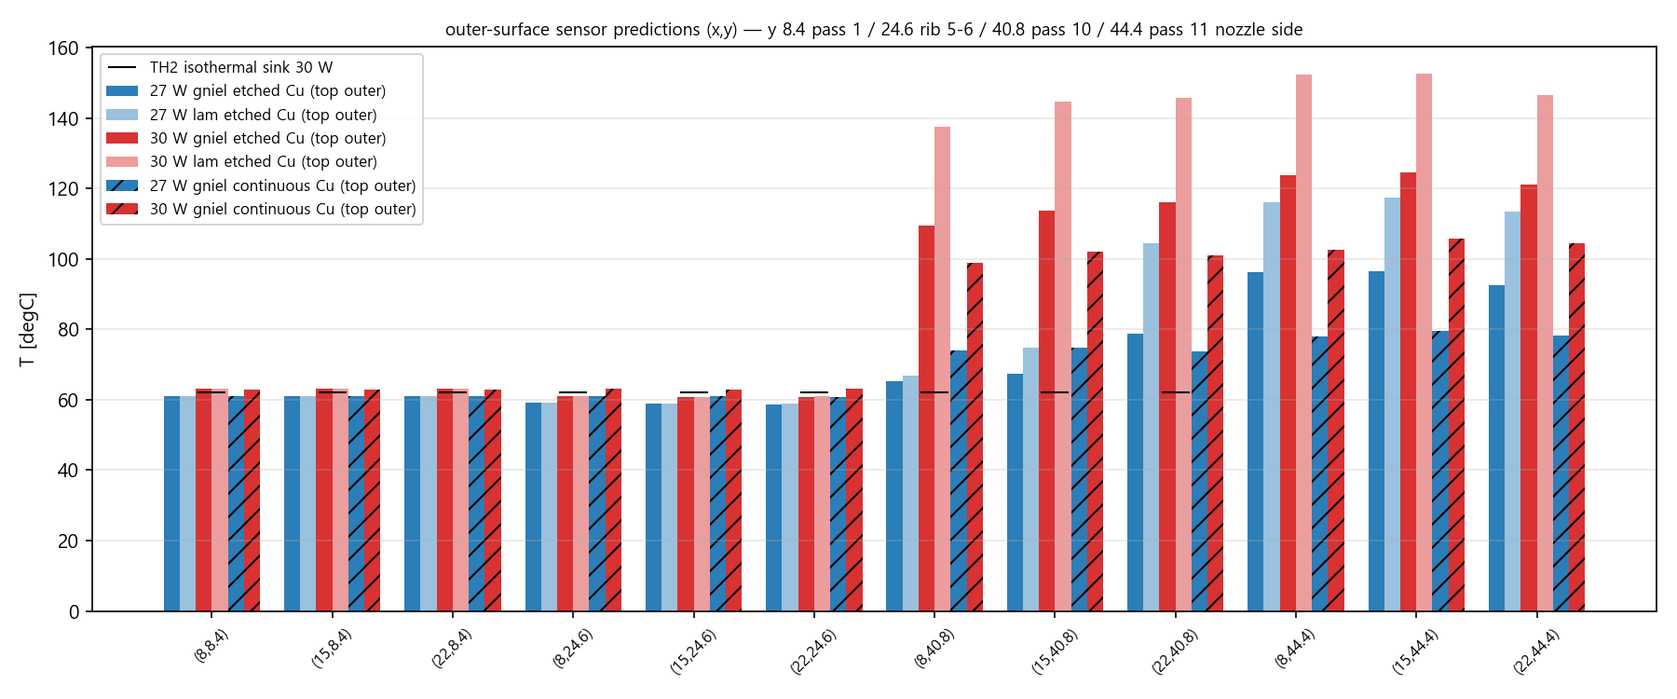
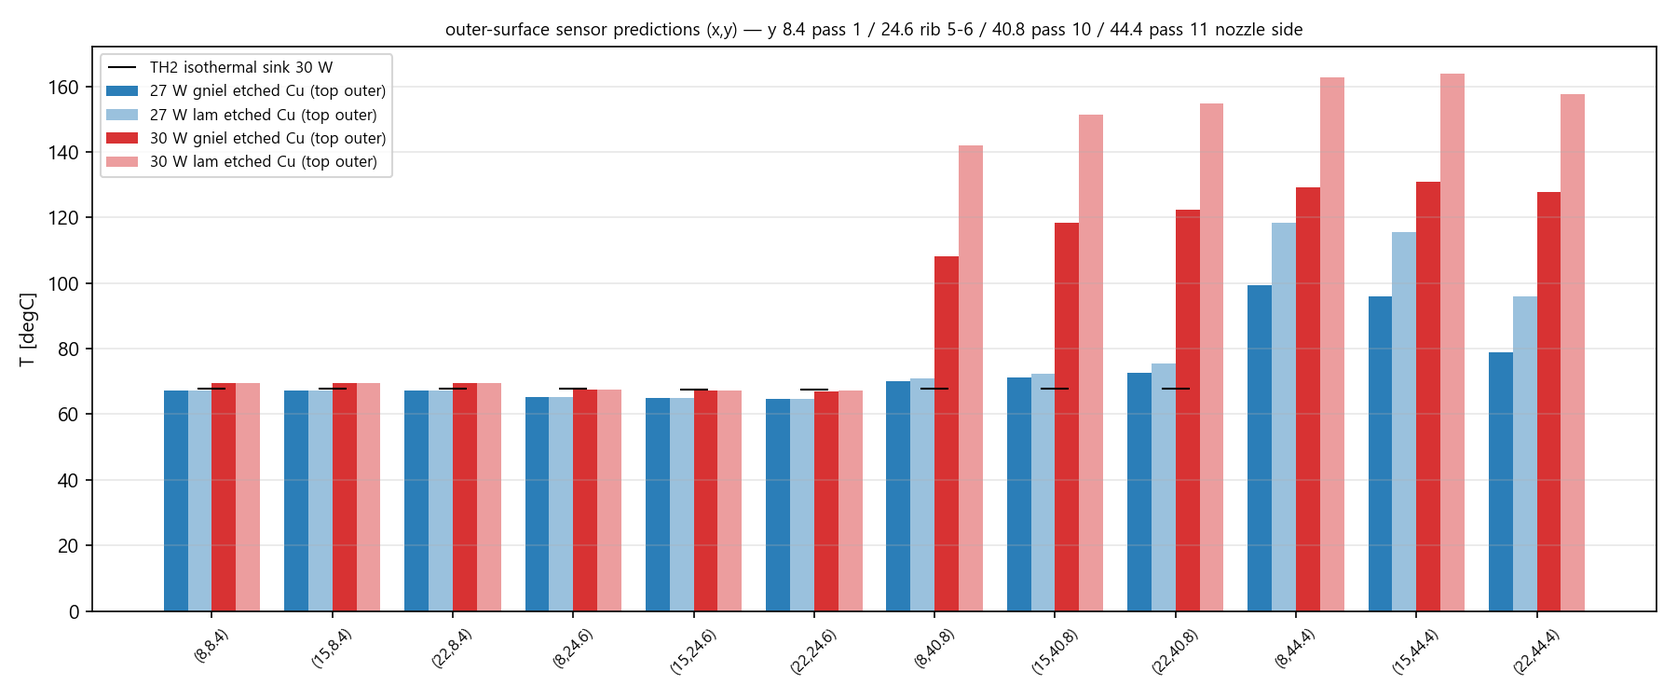
추력기: 추진제 R245fa → R1233zd(E) 전환 (전 모델 재런 — 설계점 113.7 mg/s·26.0 W·T_sat 60.8 °C, x_di 0.65, 출구 벽 27 W 104–125 °C, 콜드스타트 11–24 s, 오리피스 ΔP 42 kPa; 하드웨어 불변, 차트·엑셀·예측표·5절 갱신)

diff --git a/public/metacube/thruster/index.html b/public/metacube/thruster/index.html
@@ -7,4 +7,4 @@ table{border-collapse:collapse;font-size:12.5px;background:#fff}th,td{border:1px
 .note{background:#fff6e8;border-left:4px solid #d98040;padding:9px 12px;font-size:13px;margin:12px 0;border-radius:0 4px 4px 0}.ok{background:#eef7ee;border-left:4px solid #3a8a3a}
 .vf{width:100%;height:760px;border:1px solid #cfd8ea;border-radius:4px;background:#fff}.two{display:grid;grid-template-columns:1fr 1fr;gap:12px}@media(max-width:900px){.two{grid-template-columns:1fr}}
 ul{font-size:13.5px}li{margin:3px 0}.dl a{display:inline-block;margin:3px 6px 3px 0;padding:4px 10px;border:1px solid #b9c6dc;border-radius:4px;background:#fff;color:#1F3864;text-decoration:none;font-size:12.5px}
-</style></head><body><div id="mcnav" style="position:sticky;top:0;z-index:9999;display:flex;gap:6px;align-items:center;background:#1F3864;padding:7px 14px;font-family:'Malgun Gothic',sans-serif"><span style="color:#fff;font-weight:700;font-size:13.5px;margin-right:8px">MetaCube</span><a href="/metacube/" style="color:#cfd8ea;border:1px solid #4a6293;border-radius:4px;padding:3px 12px;font-size:12.5px;text-decoration:none">전기체 3U CAD</a><a href="/metacube/barrel/" style="color:#cfd8ea;border:1px solid #4a6293;border-radius:4px;padding:3px 12px;font-size:12.5px;text-decoration:none">경통(카메라) 상세</a><a href="/metacube/thruster/" style="color:#1F3864;background:#fff;border-radius:4px;padding:3px 12px;font-size:12.5px;font-weight:700;text-decoration:none">추력기 (PCB 기화식)</a><a href="/metacube/coldgas/" style="color:#cfd8ea;border:1px solid #4a6293;border-radius:4px;padding:3px 12px;font-size:12.5px;text-decoration:none">추진모듈 (냉가스 R134a)</a><a href="/metacube/downloads.html" style="color:#cfd8ea;border:1px solid #4a6293;border-radius:4px;padding:3px 12px;font-size:12.5px;text-decoration:none">STEP 다운로드</a><span style="margin-left:auto;display:flex;gap:10px;align-items:center;font-size:11.5px;color:#cfd8ea"><span>추력기 <b style="color:#fff">v0.4</b></span><span style="color:#9fb0d0">배포 2026-08-16 04:04 KST</span></span></div><div class="tabbar"><button id="tb-ov" onclick="showTab(&quot;ov&quot;)">개요</button><button id="tb-prop" onclick="showTab(&quot;prop&quot;)">추진제 선택</button><button id="tb-design" onclick="showTab(&quot;design&quot;)">설계·치수·3D</button><button id="tb-heater" onclick="showTab(&quot;heater&quot;)">히터·V→I·P·T</button><button id="tb-fea" onclick="showTab(&quot;fea&quot;)">3D 열해석</button><button id="tb-boil" onclick="showTab(&quot;boil&quot;)">채널 비등 지도</button><button id="tb-files" onclick="showTab(&quot;files&quot;)">EAGLE 파일</button><button id="tb-risk" onclick="showTab(&quot;risk&quot;)">미결·리스크</button></div><div class="wrap"><section class="tabpane on" id="sec-ov"><h1>PCB(FR-4) 냉매 기화식 마이크로추력기 — 설계·해석 종합</h1><p class="sub">R245fa 액체를 시린지펌프로 공급 → 다층 FR-4 ㄹ자 마이크로채널에서 Cu 35 μm 히터로 기화 → 노즐. 지상 시험 1 atm, 챔버 4.0 bar abs, 진공 환산 50 mN. 1차 = 단층(코어 1장) 실험체, 2차 = 같은 코어를 3층으로 접기. 갱신 2026-08-16 04:04 KST</p><div class="cards"><div class="card"><b>설계점</b><div class="n">50 mN · 25.6 W</div><p>진공 Isp 45.5 s(ε100) · ṁ 112 mg/s = 5.4 mL/min · 지상 Isp 24 s. 전력 = 현열 5.1 + 잠열 19.4 + 과열 1.1 W(+손실 1~2 W).</p></div><div class="card"><b>채널</b><div class="n">2.0 × 0.6 · 12패스 280 mm</div><p>코어 FR-4 0.6 관통슬롯(라우터 2.0), 리브 1.6, 보드 30×49.2. 비등 구간 벽 과열도 7.6 K(Cooper, 상관식 밴드 ±40 %) · 2상 ΔP ~3 kPa · 건조 시작 건도 x_di≈0.65(Kim-Mudawar) 이후 후건조 구간 — 벽온 밴드는 5절 v2 모델 참조.</p></div><div class="card"><b>히터</b><div class="n">ㄹ자 0.20/0.20 · 17.1 Ω</div><p>Cu 35 μm 폭방향 미앤더, 밴드 1.6(채널 안쪽), 면당 1132 mm 8.5 Ω, 전 면 직렬 하나(U턴 코너까지 연속, 라우터 R1.0 코너·슬롯 끝 라운드에서 0.2 여유). 운전 정격 26~27 W @ ~23 V(요구량 정합), 30 W @ 24 V는 마진 케이스, 건식 ≤10 V. 4선 R(T) 측정용 켈빈 센스 패드 2개.</p></div><div class="card"><b>조립</b><div class="n">SMT 리플로우</div><p>솔더 랜드 1.0(리브 위+프레임), 부품 2종(코어 1 + 커버 2 동일, 뒤집어 사용), 리드 = 밀봉 안쪽 비아(솔더 충전, 가안), 정렬홀 φ2×3, 센서포트 9점.</p></div></div><div class="note ok"><b>탭으로 나눠 놓았습니다</b> — 위 탭을 누르면 해당 내용만 표시됩니다: 추진제 선택(56종 스크리닝) → 설계·치수·3D(단층/3층/커버 뷰어, EAGLE 미리보기) → 히터·V→I·P·T(예측표) → 3D 열해석(TH2·TH3) → 채널 비등 지도(정상·과도·애니메이션) → EAGLE 파일 → 미결·리스크. 주소에 #탭이름을 붙여 바로 열 수 있습니다(예: #boil).</div></section><section class="tabpane" id="sec-prop"><h2>1. 추진제 선택 (56종 스크리닝)</h2><p class="sub">챔버 4.0 bar · 과열 10 K · ε100 · η0.93 · 물성 CoolProp 7.2. 깔때기: 시린지펌프·저압탱크(20 °C 증기압 ≤ 1.5 bar) → PCB 온도 한계 65 °C에서 챔버 압력(MEOP) ≥ 3 bar → 불연 → 5종 → 규제(R11 CFC·R123 HCFC) 제외 → 3종 → ρ·Isp 1위 R245fa. 색 = 가연성, 모양 = 독성(○ A / ◇ B).</p><figure><img src="/metacube/thruster/img/propellant_selection.png" alt="propellant selection"><figcaption>① 저장 압력 vs ρ·Isp · ② ρ·Isp 순위(★ 창 안) · ③ 실현 창(저장압 × 65 °C MEOP) · ④ 전력/추력 vs ρ·Isp</figcaption></figure><div class="dl"><a href="/metacube/thruster/data/propellant_selection.xlsx" download>⬇ 추진제 56종 데이터 엑셀 (propellant_selection.xlsx — 시트1 전체 데이터 25열, 시트2 정의·계산식·출처)</a></div><h3>창 안 후보</h3><div class="tw"><table><tr><th>추진제</th><th>P_sat 20 °C [bar]</th><th>P_sat 65 °C = MEOP [bar]</th><th>ρ 20 °C</th><th>T_sat 4 bar [°C]</th><th>Isp 진공 [s]</th><th>ρ·Isp [g·s/cm³]</th><th>W/mN</th><th>50 mN 전력 [W]</th><th>ASHRAE 34</th><th>GWP</th></tr><tr><td>R11</td><td>0.89</td><td>3.6</td><td>1488</td><td>69.2</td><td>43.0</td><td>63.9</td><td>0.51</td><td>25</td><td>A1</td><td>4660</td></tr><tr><td>R123</td><td>0.76</td><td>3.3</td><td>1477</td><td>72.2</td><td>42.1</td><td>62.2</td><td>0.51</td><td>26</td><td>B1</td><td>77</td></tr><tr><td>R245fa</td><td>1.23</td><td>5.3</td><td>1352</td><td>55.0</td><td>44.3</td><td>59.9</td><td>0.53</td><td>26</td><td>B1</td><td>858</td></tr><tr><td>R1234ze(Z)</td><td>1.49</td><td>5.9</td><td>1238</td><td>50.8</td><td>46.6</td><td>57.6</td><td>0.52</td><td>26</td><td>A2L</td><td>1</td></tr><tr><td>R1233zd(E)</td><td>1.08</td><td>4.5</td><td>1275</td><td>60.8</td><td>44.8</td><td>57.2</td><td>0.53</td><td>26</td><td>A1</td><td>1</td></tr></table></div><div class="note">R245fa: ρ·Isp 59.9(창 안 1위, N₂ 콜드가스의 4배, Xe 200 bar와 동급이면서 탱크 1.2 bar), 65 °C MEOP 5.3 bar, 0.53 W/mN(물 VLM의 1/5), 4 bar 운전 55 °C(FR-4 친화). 약점 = ASHRAE B1(고독성 등급)·GWP 858 → 무독 최우선이면 <b>R1233zd(E)</b>(A1, GWP 1, 성능 −4 %)를 같은 설계로. GWP·등급은 투고 전 원출처 재확인.</div></section><section class="tabpane" id="sec-design"><h2>2. 설계·치수·3D 모델</h2><p class="sub">부품 3종만: 커버(동일 2, 뒤집어 상·하) · 코어(단층 1 / 3층 3) · 중간판(3층만, 동일 2, 4층 보드 양면 히터+매설 리드). 보드 y-대칭이라 커버를 뒤집으면 포트 홀이 입구 ↔ 노즐 자리로 감. 뷰어: 범례 클릭 토글 · 드래그 회전 · 휠 줌.</p><h3>2.0 핵심 치수 표 (mm)</h3><div class="tw"><table><tr><th>항목</th><th>값</th></tr><tr><td colspan="2" style="background:#e9eef6;font-weight:700;color:#1F3864">§ 보드 / 적층</td></tr><tr><td>보드 외형</td><td style="text-align:left">30.0 × 49.2 mm (단층) · 30.0 × 20.4 (3층, 중간판은 좌측 탭 +6)</td></tr><tr><td>원점</td><td style="text-align:left">좌하 (0, 0), 단위 mm, 보드 y-대칭</td></tr><tr><td>적층 두께</td><td style="text-align:left">단층 1.67 (커버 0.4 + Cu 0.035 + 솔더 0.10 + 코어 0.6 + 솔더 0.10 + Cu 0.035 + 커버 0.4) · 3층 4.21</td></tr><tr><td>부품</td><td style="text-align:left">커버 ×2 동일(뒤집기) · 코어 ×1(단층) / ×3(3층) · 중간판 ×2 동일(3층, 4층 보드)</td></tr><tr><td>정렬 홀</td><td style="text-align:left">φ2.0 ×3 (28, 2) (28, 47.2) (2, 24.6) — y-대칭·x-비대칭</td></tr><tr><td colspan="2" style="background:#e9eef6;font-weight:700;color:#1F3864">§ 코어 (FR-4 0.6, 2L)</td></tr><tr><td>채널 슬롯</td><td style="text-align:left">폭 2.0 관통(라우터 Ø2.0 중심선), 깊이 = 코어 0.6</td></tr><tr><td>직선부</td><td style="text-align:left">x 5.0 – 25.0 (길이 20.0), 12패스(단층) / 4패스(3층 코어)</td></tr><tr><td>패스 중심 y</td><td style="text-align:left">4.8 + 3.6·i (i = 0…11) → 4.8 … 44.4</td></tr><tr><td>피치 / 리브</td><td style="text-align:left">3.6 / 1.6</td></tr><tr><td>U턴</td><td style="text-align:left">폭 2.0, 짝수 패스 끝 x 23–25 / 홀수 패스 끝 x 5–7</td></tr><tr><td>경로 길이</td><td style="text-align:left">~280 mm (중심선 256)</td></tr><tr><td>솔더 랜드</td><td style="text-align:left">폭 1.0, 리브 중심선 y = 6.6 + 3.6·i (i = 0…10) + 외곽 프레임(안쪽 x 4.7/25.3, y 3.5/45.7), Top·Bottom 동일</td></tr><tr><td colspan="2" style="background:#e9eef6;font-weight:700;color:#1F3864">§ 커버 (FR-4 0.4, 2L, ×2 동일)</td></tr><tr><td>동박</td><td style="text-align:left">Cu 35 μm: Top = 안쪽면(히터+랜드), Bottom = 바깥면(패드), ENIG, 솔더마스크 없음</td></tr><tr><td>히터 밴드</td><td style="text-align:left">1.6 (채널 2.0 안쪽 각 0.2), 세그먼트 중심선 패스 y ± 0.7</td></tr><tr><td>히터 선폭 / 갭 / 피치</td><td style="text-align:left">0.20 / 0.20 / 0.40</td></tr><tr><td>히터 x 범위</td><td style="text-align:left">패스 0: 8.2 → 24.7 · 패스 1–10: 5.3 ↔ 24.7(U턴 코너 포함, R1.0 라운드에서 0.2 여유로 클립) · 패스 11: 24.7 → 8.0 · U턴 연결부 [xc+0.3, xc+1.7]</td></tr><tr><td>히터 길이 / 저항</td><td style="text-align:left">1132 mm/면 · 5,660 sq · 8.5 Ω/면 (ρs 1.40 mΩ/sq + 0.6) · 전 면 직렬 17.1 Ω</td></tr><tr><td>리드 비아</td><td style="text-align:left">φ0.3 드릴 / 패드 0.7 · (5.8, 4.4) 시작 · (5.8, 44.8) 끝 (슬롯 끝 라운드 안 0.2 여유) · 리플로우 때 솔더 충전</td></tr><tr><td>바깥면 패드</td><td style="text-align:left">2.4 × 1.2 중심 (1.8, 4.8)·(1.8, 44.4), 인출선 0.5</td></tr><tr><td>포트 홀</td><td style="text-align:left">φ1.0 (7.0, 4.8) — 하부 커버 = 입구, 뒤집으면 (7.0, 44.4) = 노즐 인서트</td></tr><tr><td>센서 포트</td><td style="text-align:left">φ0.8 블라인드 깊이 0.3(바깥면에서), x 8·15·22 × y 8.4·24.6·40.8</td></tr><tr><td colspan="2" style="background:#e9eef6;font-weight:700;color:#1F3864">§ 중간판 (3층, FR-4 0.4, 4L, ×2 동일)</td></tr><tr><td>히터</td><td style="text-align:left">위·아래 면 동일 패턴(코어당 4패스, 351 mm/면 3.1 Ω), 비아 4개(시작 ±0.4·끝 ±0.4, 면별로 다른 비아)</td></tr><tr><td>매설 리드</td><td style="text-align:left">L2로 밀봉 링 아래 통과 → 좌측 탭 패드 (−4.3, 4.8)·(−4.3, 15.6)</td></tr><tr><td>층간 유체 비아</td><td style="text-align:left">φ1.2 (7.0, 15.6) — 뒤집으면 (7.0, 4.8)</td></tr><tr><td colspan="2" style="background:#e9eef6;font-weight:700;color:#1F3864">§ 노즐·유량</td></tr><tr><td>노즐</td><td style="text-align:left">목 φ0.30, 지상 ε≈1.4 정합 / 진공 ε 100 교체</td></tr><tr><td>설계 유량 / 압력</td><td style="text-align:left">5.4 mL/min (112 mg/s) · 챔버 4.0 bar abs · 히터 30 W @ 24 V</td></tr></table></div><h3>2.0b 층별 2D 도면 (치수 표기)</h3><div class="two"><figure><img src="/metacube/thruster/img/drw_core.png" alt="core"><figcaption>코어 — 관통 슬롯 + 양면 랜드</figcaption></figure><figure><img src="/metacube/thruster/img/drw_cover_outer.png" alt="cover outer"><figcaption>커버 바깥면 — 패드·인출선·센서 포트</figcaption></figure></div><figure><img src="/metacube/thruster/img/drw_cover_inner.png" alt="cover inner"><figcaption>커버 안쪽면 — 히터 ㄹ자 + 랜드 (확대 인셋에 선폭·갭·피치·밴드·여유)</figcaption></figure><div class="two"><figure><img src="/metacube/thruster/img/drw_stack.png" alt="stack"><figcaption>적층 단면 — 단층 1.67 / 3층 4.21 mm</figcaption></figure><figure><img src="/metacube/thruster/img/drw_midplate.png" alt="midplate"><figcaption>중간판(3층 전용) — 양면 히터·비아 4·매설 리드·탭·층간 유체 비아</figcaption></figure></div><h3>2.1 단층(1코어) 조립 — 1차 실험체</h3><iframe class="vf" data-src="/metacube/thruster/viewer/v1.html"></iframe><h3>2.2 3층(3코어 접기) 조립 — 2차</h3><iframe class="vf" data-src="/metacube/thruster/viewer/v3.html"></iframe><h3>2.3 커버 히터 단독 (도면용, 옆에 치수표)</h3><iframe class="vf" data-src="/metacube/thruster/viewer/vc.html"></iframe><h3>2.4 히터 치수</h3><figure><img src="/metacube/thruster/img/pcb_heater_zigzag_dims.png" alt="heater dims"><figcaption>Cu 35 μm 폭방향 ㄹ자: 선폭 0.20 / 갭 0.20 / 피치 0.40 · 세그먼트 1.6(밴드) · 채널 2.0 안쪽 0.2 여유 · 패스 0 시작 x 8.2 / 패스 11 끝 x 8.0 · U턴 코너까지 연속(라운드 클립) · 비아 (5.4, 4.1)·(5.4, 45.1) · 바깥면 패드 (1.8, 4.8)·(1.8, 44.4)</figcaption></figure><h3>2.5 EAGLE 도면 미리보기</h3><figure><img src="/metacube/thruster/img/eagle_v03_preview.png" alt="eagle"><figcaption>core_v03.brd(슬롯 = Milling 46 폭 2.0 중심선, 랜드 Top+Bottom) · cover_v03.brd(Top = 안쪽면 히터+랜드, Bottom = 바깥면 패드, 비아, 포트 φ1.0). 같은 커버 부품이 상·하 공용.</figcaption></figure></section><section class="tabpane" id="sec-heater"><h2>3. 히터 설계와 전압 → 전류·전력·온도 예측</h2><p class="sub">저항 모델: 면저항 1.40 mΩ/sq(벌크의 2.9배 — 팀 히터 #2 0.152×2720 mm 26.3 Ω와 CSTE 0.3×282.5 mm 2.51 Ω 공통 피팅) + 리드 0.6 Ω/면, TCR 0.393 %/K. 3D 전기-열(전압 구동, 요소별 ρ(T), Cooper 비등, 에칭 Cu 패턴)로 계산. 히터는 단층/3층 모두 <b>하나</b>(전 면 직렬, 총 ~2240 mm) → 운전점 동일.</p><figure><img src="/metacube/thruster/img/figZ_VIP_T.png" alt="V-I-P-T"><figcaption>전압 → 보드 발열 · 전류 · 최고 온도 (직렬, 파워서플라이 0~30 V). 유체 운전은 비등이 63~65 °C에 묶어 P ∝ V², 건식은 R(T)로 전류 포화.</figcaption></figure><div class="tw"><table><tr><th>조건</th><th>I [A]</th><th>P 보드 [W]</th><th>P 리드 [W]</th><th>R(T) [Ω]</th><th>T_max [°C]</th><th>밴드 평균</th><th>외판 센서 범위</th><th>바닥 과열도 [K]</th></tr><tr><td>유체 15 V</td><td>0.77</td><td>10.9</td><td>0.72</td><td>19.39</td><td>60.6</td><td>60.6</td><td>56.6–59.3</td><td>5.2</td></tr><tr><td>유체 20 V</td><td>1.03</td><td>19.3</td><td>1.27</td><td>19.47</td><td>62.0</td><td>61.9</td><td>57.5–60.5</td><td>6.5</td></tr><tr><td>유체 24 V</td><td>1.23</td><td>27.7</td><td>1.81</td><td>19.53</td><td>63.0</td><td>62.9</td><td>58.1–61.4</td><td>7.4</td></tr><tr><td>유체 27 V</td><td>1.38</td><td>35.0</td><td>2.28</td><td>19.58</td><td>63.7</td><td>63.6</td><td>58.5–62.0</td><td>8.0</td></tr><tr><td>유체 30 V</td><td>1.53</td><td>43.1</td><td>2.81</td><td>19.62</td><td>64.3</td><td>64.3</td><td>58.9–62.6</td><td>8.6</td></tr><tr><td>건식 6 V</td><td>0.31</td><td>1.8</td><td>0.12</td><td>19.08</td><td>57.5</td><td>55.4</td><td>52.4–55.1</td><td>—</td></tr><tr><td>건식 8 V</td><td>0.39</td><td>2.9</td><td>0.18</td><td>20.45</td><td>81.3</td><td>77.7</td><td>72.6–77.3</td><td>—</td></tr><tr><td>건식 10 V</td><td>0.45</td><td>4.3</td><td>0.25</td><td>22.02</td><td>108.5</td><td>103.2</td><td>95.5–102.7</td><td>—</td></tr><tr><td>건식 12 V</td><td>0.51</td><td>5.8</td><td>0.31</td><td>23.73</td><td>138.3</td><td>131.0</td><td>120.5–130.5</td><td>—</td></tr></table></div><div class="note ok"><b>운전 규칙(v2)</b> P_필요 ≈ 4.75 W × Q[mL/min] + 1.5 W → 5.4 mL/min = <b>27 W ≈ 23 V</b>(요구량 정합; 30 W/24 V는 출구 벽 129–159 °C라 마진 케이스로만) · 8 mL/min = 28 V · 9 mL/min = 30 V. 건식 통전은 10 V(4.3 W, 108 °C) 이하. 표의 T_max·외판 센서는 비등 구간(등온 싱크) 값 — 출구 구간은 5절 결합 FEA.</div><div class="note"><b>가장 큰 불확실성</b> = 면저항(×3 범위). 커버 보드 4장 먼저 발주 → 위트니스 쿠폰 4선 측정(ρs·R_fix·TCR) → 예측표 갱신 → 풀스택 발주 순서 권장.</div></section><section class="tabpane" id="sec-fea"><h2>4. 3D 열해석 (CalculiX)</h2><div class="note"><b>v2 정정 (08-16)</b> — 아래 TH2·TH3는 채널 전체를 55 °C 등온 비등 싱크로 둔 해석이라 <b>비등 구간(x &lt; x_di≈0.67, 앞 ~180 mm)에서만 유효</b>합니다. 건조·증기 구간(마지막 1~1.5패스)은 5절의 <b>3D-1D 결합 FEA</b>가 정본: 출구 벽 27 W 101–123 °C / 30 W 129–159 °C, 노즐측 외판 센서 92–97 °C(27 W). 콜드스타트 2.9–7.8 s는 웜 리스타트 값 → 진짜 콜드스타트 9–14 s(5절). 등온 싱크 결과의 T_max 63 °C·열배분 46/46/7·과열도 7.6 K·건식 K/W는 그대로 유효.</div><h3>4.1 판 모델 TH2 — 단층 30×49×1.54, 30 W, 에칭 Cu 패턴</h3><div class="cards"><div class="card"><b>T_max</b><div class="n">63.3 °C</div><p>히터 밴드. Cu 상/하 대칭(0.00 K). TH1 3코어 65.1보다 낮음.</p></div><div class="card"><b>열배분</b><div class="n">46 / 46 / 7 %</div><p>바닥 / 천장 / 리브 측벽. 벽 과열도 바닥=천장 7.6 K, 측벽 3.1 K.</p></div><div class="card"><b>외피 손실</b><div class="n">1.2 W</div><p>96 % 폐합. 외판 센서 9점 59.6~62.3 °C(채널 위 vs 리브 위 ~2.5 K).</p></div><div class="card"><b>콜드스타트(3D, 웜 리스타트)</b><div class="n">2.9–7.8 s</div><p>⚠ 유체가 처음부터 55 °C인 조건(웜 리스타트). 채널 액체 재고·통과시간(3.8 s)을 포함한 진짜 콜드스타트는 5절 v2 모델(6~15 s). 건식 6 W: 239/142 °C(h 10/20) → 36/20 K/W.</p></div></div><div class="two"><figure><img src="/metacube/thruster/img/figS1_core_midplane_A.png" alt="S1"><figcaption>코어 중간면 / 하부 Cu 히터면 온도 (S_A 30 W)</figcaption></figure><figure><img src="/metacube/thruster/img/figS1b_cu_pattern_compare.png" alt="S1b"><figcaption>연속 Cu 가정 vs 에칭 패턴 — 에칭 패턴이 정본(밴드 > 리브 > 여백)</figcaption></figure></div><div class="two"><figure><img src="/metacube/thruster/img/figS3_dTwall_path.png" alt="S3"><figcaption>벽 과열도 vs 채널 경로 — 경로 전체 평탄, U턴 봉우리 없음(히터가 채널 안쪽)</figcaption></figure><figure><img src="/metacube/thruster/img/figS4_transient_D.png" alt="S4"><figcaption>콜드스타트 (22 °C → 30 W ON)</figcaption></figure></div><h3>4.2 단위셀 TH3 — 실제 ㄹ자 트레이스 0.20/0.20 해상 (격자 0.05 mm)</h3><figure><img src="/metacube/thruster/img/figU0_where_is_what_temperature.png" alt="U0"><figcaption><b>어디가 몇 도인가</b> — 유체 55.0(포화) → 히터 트레이스 63.4(과열도 8.4 K, 구리 안 등온 0.07 K) → 트레이스 사이 FR-4 갭 61.0 → 커버 바깥면(센서) 60.4 → 리브 옆벽 57.9. 열 배분: 트레이스 상면 53 / 옆면 19 / FR-4 갭 26 / 리브 2 %. 스미어 밴드 모델 대비 +0.2~0.7 K → 핫스팟 없음, 예측표 유효.</figcaption></figure><div class="two"><figure><img src="/metacube/thruster/img/figU1_cu_plane_topview.png" alt="U1"><figcaption>히터면 상면도 — 트레이스/갭 온도 (U1 정격 · U2 2배 · U3 0.15/0.15)</figcaption></figure><figure><img src="/metacube/thruster/img/figU3_superheat_split.png" alt="U3"><figcaption>과열도와 열 배분</figcaption></figure></div><div class="note">한계(정직하게): Cooper 상관식 ±2~4 K, 유체 55 °C 등온 싱크(비등 구간에만 맞음 — 출구 증기 구간은 아래 5절), 축방향 변화 없음, 히터 균일 발열(링크 전류 집중 미반영).</div></section><section class="tabpane" id="sec-boil"><h2>5. 채널을 따라 어디서 끓고, 어디서 마르고, 어디서 다 기체가 되나 — v2 (정상 · 과도 · 안정성 · 3D-1D 결합)</h2><p class="sub">1D 축방향 2상 모델 v2: 과냉/핵비등(Cooper·Kim-Mudawar 2013·Bertsch 2009 밴드) → <b>건조 개시 x_di(Kim-Mudawar 2013 Part I)</b> → 후건조 블렌드 → 과열 증기(층류/Gnielinski/Dittus-Boelter 밴드) · 액체 체류(통과 3.8 s)·채널 재고 포함 진짜 콜드스타트 · 실기체 C*·HEM 임계유량 압력 결합 · Katto-Ohno/Zhang CHF · Ledinegg/Ishii-Zuber 안정성 · 3D 공액전도를 1D 구간별 h·T_sink와 결합. 검토(review/physics_review_v1.md) 반영본 = <b>정본</b>. 27 W(요구량 정합) / 30 W.</p><div class="cards"><div class="card"><b>건조 개시 x_di</b><div class="n">0.67</div><p>27 W: 191 mm(1D)/179 mm(FEA) · 30 W: 173/161 mm. 이후 후건조 → x=1 (27 W 259 / 30 W 233 mm). "CHF 여유 15×"는 오류(풀비등식)라 삭제 — 건조형 CHF 14 kW/m² &lt; 인가 21~23 → 완전기화 설계는 정의상 dryout을 지난다.</p></div><div class="card"><b>출구 벽온 (3D-1D 결합, 에칭 Cu)</b><div class="n">27 W 101–123 °C</div><p>30 W 129–159 °C (증기 h 밴드 Gnielinski/층류). 1D 밴드 27 W 110–170 / 30 W 137–198. 최고점 = 노즐측 마지막 패스. 비등구간은 60–64 °C(TH2와 일치). FR-4 Tg 155 대비 30 W는 위험 → 정격 27 W.</p></div><div class="card"><b>콜드스타트 (진짜)</b><div class="n">27 W 9–14 s</div><p>보드·채널액 22 °C, 펌프+히터 t=0: x_out=1 9.1–14.4 s, 과열 10 K 11–19 s (30 W: 7.4–11.3 / 8.5–13 s). 프리히트 6 s(62 °C) 후 펌프 ON이 최적, 20 s는 벽 150–220 °C로 불가.</p></div><div class="card"><b>안정성</b><div class="n">리스트릭터 φ0.15</div><p>운전점 ΔP(G) 기울기 +(양) → Ledinegg 안정, 음의 가지는 G 236–400. 제한기 ΔP 38 kPa = 2상 ΔP의 12–14× → 기울기 +830 → PDO/Ledinegg 충족. Ishii-Zuber: 시린지펌프 직결(정유량)이면 DWO 해제, 연성 급송이면 ΔP_r 1.2–2 bar 필요.</p></div></div><figure><img src="/metacube/thruster/img/pcb_cm2_serpentine_steady.png" alt="serpentine v2"><figcaption>정상 27 W / 30 W — 실제 12패스 채널 위 벽 온도·건도(v2). x_di(청록)·x=1(초록/빨강) 위치 표시. 마지막 1~1.5패스만 뜨겁다.</figcaption></figure><div class="two"><figure><img src="/metacube/thruster/img/pcb_cm2_steady_27W.png" alt="steady 27"><figcaption>27 W 경로 그래프: 벽/유체 온도 밴드 · 건도 · 열유속 · 구간</figcaption></figure><figure><img src="/metacube/thruster/img/pcb_cm2_steady_30W.png" alt="steady 30"><figcaption>30 W 경로 그래프</figcaption></figure></div><div class="two"><figure><img src="/metacube/thruster/img/pcb_cm2_htp_band.png" alt="htp band"><figcaption>비등 h(x) 밴드 — Cooper / Kim-Mudawar / Bertsch, x_di 이후 후건조</figcaption></figure><figure><img src="/metacube/thruster/img/pcb_cm2_outlet_wall_band.png" alt="outlet band"><figcaption>출구 벽온 밴드 vs 전력·증기 h 상관식, FR-4 Tg 155/170 기준선</figcaption></figure></div><figure><img src="/metacube/thruster/img/pcb_cm2_stability_map.png" alt="stability"><figcaption>안정성 맵 — 채널 ΔP(G) 특성(제한기 유/무), Ledinegg 판별, Ishii-Zuber N_sub–N_pch 점 vs 경계</figcaption></figure><h3>3D-1D 결합 FEA (에칭 Cu, 27/30 W, 증기 h 공칭·비관)</h3><div class="two"><figure><img src="/metacube/thruster/img/figC1_wall_path.png" alt="figC1"><figcaption>벽 온도 vs 채널 경로 — 등온 싱크(TH2) vs 결합. 비등구간 동일, 건조·증기 구간에서 상승.</figcaption></figure><figure><img src="/metacube/thruster/img/figC2_sensors.png" alt="figC2"><figcaption>외판 센서 예측 — 패스1·리브 59–63, 패스10 65–79(27 W), 노즐측 패스11 92–97 °C(27 W)/121–125(30 W) → y 44.4 센서 추가</figcaption></figure></div><h3>과도 — 콜드스타트 (v2)</h3><figure><img src="/metacube/thruster/img/pcb_cm2_serpentine_27W.gif" alt="gif serp"><figcaption>27 W 콜드스타트 애니메이션 — ㄹ자 채널 위 벽 온도·건도</figcaption></figure><div class="two"><figure><img src="/metacube/thruster/img/pcb_cm2_transient_27W_board.png" alt="tr27"><figcaption>27 W: 전선(x_di·x=1) 이동·압력·출구 상태 vs 시간</figcaption></figure><figure><img src="/metacube/thruster/img/pcb_cm2_transient_30W_board.png" alt="tr30"><figcaption>30 W</figcaption></figure></div><figure><img src="/metacube/thruster/img/pcb_cm2_snapshots_27W.png" alt="snap"><figcaption>27 W 스냅샷</figcaption></figure><div class="note"><b>설계 시사점(v2)</b> — ① 운전 정격은 <b>27 W(요구량 정합)</b>: 30 W면 출구 벽 129–159 °C(FR-4 Tg 155 위험). ② 완전기화 이후 마지막 1~1.5패스는 100–120 °C가 정상 — 노즐측 외판 센서(y 44.4)로 "완전 기화" 판정. ③ 입구 리스트릭터 φ0.15 + 강성 급전 + 100 Hz 압력 계측. ④ 콜드스타트 실측 기대치 9–14 s(27 W). 구 v1(균일 등온 싱크·CHF 15×·콜드스타트 3–8 s)은 폐기.</div><p class="sub">v1(참고): 1D 준정상 유체·건도 1까지 Cooper·D-B 상한만 사용 — 위 v2로 대체됨. 상세: review/physics_fix_v2_report.md · design/pcb_channel_model_v2.py · fea/pcb/run_single_coupled.py</p></section><section class="tabpane" id="sec-files"><h2>6. EAGLE 도면·스크립트</h2><div class="dl"><a href="/metacube/thruster/eagle/core_v03.brd" download>core_v03.brd (32 KB)</a><a href="/metacube/thruster/eagle/cover_v03.brd" download>cover_v03.brd (92 KB)</a><a href="/metacube/thruster/eagle/heater_zigzag.scr" download>heater_zigzag.scr (22 KB)</a><a href="/metacube/thruster/eagle/heater_zigzag_points.csv" download>heater_zigzag_points.csv (20 KB)</a><a href="/metacube/thruster/eagle/README.md" download>README.md (4 KB)</a></div><p class="sub">core_v03.brd(코어 ×1) · cover_v03.brd(커버 ×2 동일 부품) · heater_zigzag.scr(EAGLE에서 SCRIPT 실행 → 히터·비아·패드·외형 자동 작도) · 좌표 CSV. XML v9.6.2 헤더(7.x는 version만 수정). 주문 규격: 솔더마스크 없음, ENIG, 1 oz, 코어 0.6T/커버 0.4T, 슬롯 라우팅 ±0.2, NPTH ±0.05.</p></section><section class="tabpane" id="sec-risk"><h2>7. 미결·리스크 (발주 전 확인)</h2><ul><li>🔴 <b>면저항 1.40 mΩ/sq</b> — 팀 히터 2개 저항값에서 피팅(물리 설명 없음, ×3 범위). 위트니스 쿠폰 4선 측정으로 확정 후 선폭 최종화.</li><li>🔴 <b>히터 리드 밀봉 관통</b> — 밀봉 안쪽 비아 + 리플로우 솔더 충전은 가안. 팀의 No.5/6 방식 확인 또는 커버 보드로 누설 시험 먼저.</li><li>🔴 <b>출구 증기·건조 구간 벽 온도</b> — 건도 x_di≈0.65 이후 후건조, 증기 h 밴드(층류 100 ~ D-B 480 W/m²K)로 벽 125~310 °C 가능(v1 "110~140"은 상한 h만 쓴 값). 조치: 운전 전력 26~27 W 정합, 출구 60~110 mm 히터 그레이딩 검토, 커버 High-Tg(≥170) 옵션, 노즐 쪽 외판 센서. 5절 v2 모델 참조.</li><li>🔴 <b>유동비등 불안정성(Ledinegg·압력강하 진동·DWO)</b> — 긴 단일채널+시린지펌프. 조치: <b>입구 리스트릭터 φ0.15(액체 ΔP≈35 kPa, Cd 0.65 ≥ 2상 ΔP의 ~10×)</b>, 급전라인 강성·체크밸브, 챔버 압력 ≥100 Hz 계측, (G,q) 안정성 맵 — 5절 v2.</li><li>🟡 계측: 0~5 N 로드셀 정확도 ±100 mN(추력 26 mN) → 차동/분동 교정 또는 1 N급·진자; 급전 튜브 압력힘 177 mN → 직각 진입·가압 타레; 출구 기체 온도는 노출 접점 φ0.13 K형(시스 TC는 벽온을 읽음); 노즐목은 보석 오리피스/레이저 홀(드릴 ±0.05 → 33 %); GUM 불확도 예산.</li><li>🟡 밀봉·공정: 캐비티 내 비아 솔더 충전 보증(IPC-4761 Type VII 플러깅 또는 He 리크 전수), 무진공 리플로우 보이드 → X-ray·압력감쇠 전수, ROL0 플럭스+IPA 플러시+베이크, R245fa–FR-4/ENIG/솔더 침지 쿠폰(65~140 °C), 인라인 필터.</li><li>🟡 3층 중간판은 4층 보드(양면 히터 + 매설 리드) 필요 — 2층으로 하면 밀봉 링을 같은 면에서 가로질러 누설. 1차 단층에서 커버 비아 방식부터 검증.</li><li>🟡 Cooper ±2~4 K, 증기 h ±30 %(벽 최고 ±15 K), 건식 h_out 10↔20, R_fix 0.6 가정, 히터 #2 실측(TCR 역산 84 vs 표면 58 °C) 미해결 → 건식 V–I–T 캘리브레이션 실험으로 확정.</li><li>🟢 채널 치수(공정 제약)·길이 여유·설계점·업체 규격 적합성·단층 대칭 열배분·콜드스타트 수 초·추진제 선택 근거.</li></ul><h2>순서</h2><ol style="font-size:13.5px"><li>커버 보드 4장(히터+쿠폰+비아) 발주 → 4선 저항·건식 V–I–T·비아 충전 누설 시험</li><li>ρs·K/W 확정, 예측표 갱신, 출구 증기 구간 3D 결합</li><li>코어 포함 풀스택 발주 → 리플로우 조립 → 4 bar g 내압 → 유체 파라메트릭(유량 × 전압 → 출구 상태, η_th, 압력–유량, 자세, 콜드스타트)</li><li>3층: 같은 점 재현 + 자세 3방향 + 콜드스타트 비교</li></ol></section><div id="mccmt" data-page="thruster"></div><script src="/metacube/mc-comments.js"></script><script>function showTab(k){document.querySelectorAll(".tabpane").forEach(function(e){e.classList.toggle("on",e.id==="sec-"+k)});document.querySelectorAll(".tabbar button").forEach(function(b){b.classList.toggle("on",b.id==="tb-"+k)});document.querySelectorAll("#sec-"+k+" iframe[data-src]").forEach(function(f){if(!f.src){f.src=f.getAttribute("data-src")}});if(history.replaceState){history.replaceState(null,"","#"+k)}window.scrollTo(0,0)}(function(){var k=(location.hash||"#ov").slice(1);if(!document.getElementById("sec-"+k)){k="ov"}showTab(k);window.addEventListener("hashchange",function(){var h=location.hash.slice(1);if(document.getElementById("sec-"+h))showTab(h)})})();</script><p class="sub" style="margin-top:30px">코드·데이터 정본: coldgas-thruster/design (propellant_selection.py · pcb_stack_viewer.py · pcb_cover_heater_viewer.py · pcb_heater_zigzag.py · pcb_channel_boiling_map.py · eagle/) · fea/pcb (pcb_lib_single.py · pcb_electro.py · pcb_unitcell.py · PCB_TH2/TH3 보고서). 페이지 생성기 design/site_thruster_page.py</p></div></body></html>
+</style></head><body><div id="mcnav" style="position:sticky;top:0;z-index:9999;display:flex;gap:6px;align-items:center;background:#1F3864;padding:7px 14px;font-family:'Malgun Gothic',sans-serif"><span style="color:#fff;font-weight:700;font-size:13.5px;margin-right:8px">MetaCube</span><a href="/metacube/" style="color:#cfd8ea;border:1px solid #4a6293;border-radius:4px;padding:3px 12px;font-size:12.5px;text-decoration:none">전기체 3U CAD</a><a href="/metacube/barrel/" style="color:#cfd8ea;border:1px solid #4a6293;border-radius:4px;padding:3px 12px;font-size:12.5px;text-decoration:none">경통(카메라) 상세</a><a href="/metacube/thruster/" style="color:#1F3864;background:#fff;border-radius:4px;padding:3px 12px;font-size:12.5px;font-weight:700;text-decoration:none">추력기 (PCB 기화식)</a><a href="/metacube/coldgas/" style="color:#cfd8ea;border:1px solid #4a6293;border-radius:4px;padding:3px 12px;font-size:12.5px;text-decoration:none">추진모듈 (냉가스 R134a)</a><a href="/metacube/downloads.html" style="color:#cfd8ea;border:1px solid #4a6293;border-radius:4px;padding:3px 12px;font-size:12.5px;text-decoration:none">STEP 다운로드</a><span style="margin-left:auto;display:flex;gap:10px;align-items:center;font-size:11.5px;color:#cfd8ea"><span>추력기 <b style="color:#fff">v0.4</b></span><span style="color:#9fb0d0">배포 2026-08-24 16:11 KST</span></span></div><div class="tabbar"><button id="tb-ov" onclick="showTab(&quot;ov&quot;)">개요</button><button id="tb-prop" onclick="showTab(&quot;prop&quot;)">추진제 선택</button><button id="tb-design" onclick="showTab(&quot;design&quot;)">설계·치수·3D</button><button id="tb-heater" onclick="showTab(&quot;heater&quot;)">히터·V→I·P·T</button><button id="tb-fea" onclick="showTab(&quot;fea&quot;)">3D 열해석</button><button id="tb-boil" onclick="showTab(&quot;boil&quot;)">채널 비등 지도</button><button id="tb-files" onclick="showTab(&quot;files&quot;)">EAGLE 파일</button><button id="tb-risk" onclick="showTab(&quot;risk&quot;)">미결·리스크</button></div><div class="wrap"><section class="tabpane on" id="sec-ov"><h1>PCB(FR-4) 냉매 기화식 마이크로추력기 — 설계·해석 종합</h1><p class="sub">R1233zd(E) 액체를 시린지펌프로 공급(무독 A1 · GWP 1 · HFO — 08-17 R245fa에서 변경, 하드웨어 불변) → 다층 FR-4 ㄹ자 마이크로채널에서 Cu 35 μm 히터로 기화 → 노즐. 지상 시험 1 atm, 챔버 4.0 bar abs, 진공 환산 50 mN. 1차 = 단층(코어 1장) 실험체, 2차 = 같은 코어를 3층으로 접기. 갱신 2026-08-24 16:11 KST</p><div class="cards"><div class="card"><b>설계점</b><div class="n">50 mN · 25.6 W</div><p>진공 Isp 44.8 s(ε100) · ṁ 113.7 mg/s = 5.37 mL/min(22 °C 공급) · 지상 Isp ~24 s. 요구 전력 26.0 W(현열+잠열+과열 10 K), 정격 27 W.</p></div><div class="card"><b>채널</b><div class="n">2.0 × 0.6 · 12패스 280 mm</div><p>코어 FR-4 0.6 관통슬롯(라우터 2.0), 리브 1.6, 보드 30×49.2. T_sat(4 bar) 60.8 °C · 비등 구간 벽 과열도 7.5 K(Cooper, 상관식 밴드 ±40 %) · 2상 ΔP ~3 kPa · 건조 시작 건도 x_di≈0.65(Kim-Mudawar; R1233zd(E)는 DB 범위 밖 — 밴드 접근) 이후 후건조 구간 — 벽온 밴드는 5절 v2 모델 참조.</p></div><div class="card"><b>히터</b><div class="n">ㄹ자 0.20/0.20 · 17.1 Ω</div><p>Cu 35 μm 폭방향 미앤더, 밴드 1.6(채널 안쪽), 면당 1132 mm 8.5 Ω, 전 면 직렬 하나(U턴 코너까지 연속, 라우터 R1.0 코너·슬롯 끝 라운드에서 0.2 여유). 운전 정격 26~27 W @ ~23 V(요구량 정합), 30 W @ 24 V는 마진 케이스, 건식 ≤10 V. 4선 R(T) 측정용 켈빈 센스 패드 2개.</p></div><div class="card"><b>조립</b><div class="n">SMT 리플로우</div><p>솔더 랜드 1.0(리브 위+프레임), 부품 2종(코어 1 + 커버 2 동일, 뒤집어 사용), 리드 = 밀봉 안쪽 비아(솔더 충전, 가안), 정렬홀 φ2×3, 센서포트 9점.</p></div></div><div class="note ok"><b>탭으로 나눠 놓았습니다</b> — 위 탭을 누르면 해당 내용만 표시됩니다: 추진제 선택(56종 스크리닝) → 설계·치수·3D(단층/3층/커버 뷰어, EAGLE 미리보기) → 히터·V→I·P·T(예측표) → 3D 열해석(TH2·TH3) → 채널 비등 지도(정상·과도·애니메이션) → EAGLE 파일 → 미결·리스크. 주소에 #탭이름을 붙여 바로 열 수 있습니다(예: #boil).</div></section><section class="tabpane" id="sec-prop"><h2>1. 추진제 선택 (56종 스크리닝)</h2><p class="sub">챔버 4.0 bar · 과열 10 K · ε100 · η0.93 · 물성 CoolProp 7.2. 깔때기: 시린지펌프·저압탱크(20 °C 증기압 ≤ 1.5 bar) → PCB 온도 한계 65 °C에서 챔버 압력(MEOP) ≥ 3 bar → 불연 → 5종 → 규제(R11 CFC·R123 HCFC) 제외 → 3종. <b>선정 = R1233zd(E)</b>(무독 A1·GWP 1, Isp 44.8 s·ρ·Isp 57.2 — 성능 −4 %로 무독·친환경 확보; R245fa는 1차 후보(참고)). 색 = 가연성, 모양 = 독성(○ A / ◇ B).</p><figure><img src="/metacube/thruster/img/propellant_selection.png" alt="propellant selection"><figcaption>① 저장 압력 vs ρ·Isp · ② ρ·Isp 순위(★ 창 안) · ③ 실현 창(저장압 × 65 °C MEOP) · ④ 전력/추력 vs ρ·Isp</figcaption></figure><div class="dl"><a href="/metacube/thruster/data/propellant_selection.xlsx" download>⬇ 추진제 56종 데이터 엑셀 (propellant_selection.xlsx — 시트1 전체 데이터 25열, 시트2 정의·계산식·출처)</a></div><h3>창 안 후보</h3><div class="tw"><table><tr><th>추진제</th><th>P_sat 20 °C [bar]</th><th>P_sat 65 °C = MEOP [bar]</th><th>ρ 20 °C</th><th>T_sat 4 bar [°C]</th><th>Isp 진공 [s]</th><th>ρ·Isp [g·s/cm³]</th><th>W/mN</th><th>50 mN 전력 [W]</th><th>ASHRAE 34</th><th>GWP</th></tr><tr><td>R11</td><td>0.89</td><td>3.6</td><td>1488</td><td>69.2</td><td>43.0</td><td>63.9</td><td>0.51</td><td>25</td><td>A1</td><td>4660</td></tr><tr><td>R123</td><td>0.76</td><td>3.3</td><td>1477</td><td>72.2</td><td>42.1</td><td>62.2</td><td>0.51</td><td>26</td><td>B1</td><td>77</td></tr><tr><td>R245fa</td><td>1.23</td><td>5.3</td><td>1352</td><td>55.0</td><td>44.3</td><td>59.9</td><td>0.53</td><td>26</td><td>B1</td><td>858</td></tr><tr><td>R1234ze(Z)</td><td>1.49</td><td>5.9</td><td>1238</td><td>50.8</td><td>46.6</td><td>57.6</td><td>0.52</td><td>26</td><td>A2L</td><td>1</td></tr><tr><td>R1233zd(E)</td><td>1.08</td><td>4.5</td><td>1275</td><td>60.8</td><td>44.8</td><td>57.2</td><td>0.53</td><td>26</td><td>A1</td><td>1</td></tr></table></div><div class="note">선정 R1233zd(E): A1(무독·불연)·GWP 1·저장압 1.08 bar·65 °C MEOP 4.48 bar(챔버 4.0 위 여유 0.48)·0.53 W/mN·T_sat(4 bar) 60.8 °C. 참고 R245fa: ρ·Isp 59.9(창 안 1위, N₂ 콜드가스의 4배, Xe 200 bar와 동급이면서 탱크 1.2 bar), 65 °C MEOP 5.3 bar, 0.53 W/mN(물 VLM의 1/5), 4 bar 운전 55 °C(FR-4 친화). R245fa는 B1(고독성 등급)·GWP 858이라 참고로만 유지. GWP·등급은 투고 전 원출처 재확인. ⚠ Kim-Mudawar·Bertsch 상관식 DB에 R1233zd(E) 없음 → 밴드 접근 유지, 실측이 신규 데이터가 됨.</div></section><section class="tabpane" id="sec-design"><h2>2. 설계·치수·3D 모델</h2><p class="sub">부품 3종만: 커버(동일 2, 뒤집어 상·하) · 코어(단층 1 / 3층 3) · 중간판(3층만, 동일 2, 4층 보드 양면 히터+매설 리드). 보드 y-대칭이라 커버를 뒤집으면 포트 홀이 입구 ↔ 노즐 자리로 감. 뷰어: 범례 클릭 토글 · 드래그 회전 · 휠 줌.</p><h3>2.0 핵심 치수 표 (mm)</h3><div class="tw"><table><tr><th>항목</th><th>값</th></tr><tr><td colspan="2" style="background:#e9eef6;font-weight:700;color:#1F3864">§ 보드 / 적층</td></tr><tr><td>보드 외형</td><td style="text-align:left">30.0 × 49.2 mm (단층) · 30.0 × 20.4 (3층, 중간판은 좌측 탭 +6)</td></tr><tr><td>원점</td><td style="text-align:left">좌하 (0, 0), 단위 mm, 보드 y-대칭</td></tr><tr><td>적층 두께</td><td style="text-align:left">단층 1.67 (커버 0.4 + Cu 0.035 + 솔더 0.10 + 코어 0.6 + 솔더 0.10 + Cu 0.035 + 커버 0.4) · 3층 4.21</td></tr><tr><td>부품</td><td style="text-align:left">커버 ×2 동일(뒤집기) · 코어 ×1(단층) / ×3(3층) · 중간판 ×2 동일(3층, 4층 보드)</td></tr><tr><td>정렬 홀</td><td style="text-align:left">φ2.0 ×3 (28, 2) (28, 47.2) (2, 24.6) — y-대칭·x-비대칭</td></tr><tr><td colspan="2" style="background:#e9eef6;font-weight:700;color:#1F3864">§ 코어 (FR-4 0.6, 2L)</td></tr><tr><td>채널 슬롯</td><td style="text-align:left">폭 2.0 관통(라우터 Ø2.0 중심선), 깊이 = 코어 0.6</td></tr><tr><td>직선부</td><td style="text-align:left">x 5.0 – 25.0 (길이 20.0), 12패스(단층) / 4패스(3층 코어)</td></tr><tr><td>패스 중심 y</td><td style="text-align:left">4.8 + 3.6·i (i = 0…11) → 4.8 … 44.4</td></tr><tr><td>피치 / 리브</td><td style="text-align:left">3.6 / 1.6</td></tr><tr><td>U턴</td><td style="text-align:left">폭 2.0, 짝수 패스 끝 x 23–25 / 홀수 패스 끝 x 5–7</td></tr><tr><td>경로 길이</td><td style="text-align:left">~280 mm (중심선 256)</td></tr><tr><td>솔더 랜드</td><td style="text-align:left">폭 1.0, 리브 중심선 y = 6.6 + 3.6·i (i = 0…10) + 외곽 프레임(안쪽 x 4.7/25.3, y 3.5/45.7), Top·Bottom 동일</td></tr><tr><td colspan="2" style="background:#e9eef6;font-weight:700;color:#1F3864">§ 커버 (FR-4 0.4, 2L, ×2 동일)</td></tr><tr><td>동박</td><td style="text-align:left">Cu 35 μm: Top = 안쪽면(히터+랜드), Bottom = 바깥면(패드), ENIG, 솔더마스크 없음</td></tr><tr><td>히터 밴드</td><td style="text-align:left">1.6 (채널 2.0 안쪽 각 0.2), 세그먼트 중심선 패스 y ± 0.7</td></tr><tr><td>히터 선폭 / 갭 / 피치</td><td style="text-align:left">0.20 / 0.20 / 0.40</td></tr><tr><td>히터 x 범위</td><td style="text-align:left">패스 0: 8.2 → 24.7 · 패스 1–10: 5.3 ↔ 24.7(U턴 코너 포함, R1.0 라운드에서 0.2 여유로 클립) · 패스 11: 24.7 → 8.0 · U턴 연결부 [xc+0.3, xc+1.7]</td></tr><tr><td>히터 길이 / 저항</td><td style="text-align:left">1132 mm/면 · 5,660 sq · 8.5 Ω/면 (ρs 1.40 mΩ/sq + 0.6) · 전 면 직렬 17.1 Ω</td></tr><tr><td>리드 비아</td><td style="text-align:left">φ0.3 드릴 / 패드 0.7 · (5.8, 4.4) 시작 · (5.8, 44.8) 끝 (슬롯 끝 라운드 안 0.2 여유) · 리플로우 때 솔더 충전</td></tr><tr><td>바깥면 패드</td><td style="text-align:left">2.4 × 1.2 중심 (1.8, 4.8)·(1.8, 44.4), 인출선 0.5</td></tr><tr><td>포트 홀</td><td style="text-align:left">φ1.0 (7.0, 4.8) — 하부 커버 = 입구, 뒤집으면 (7.0, 44.4) = 노즐 인서트</td></tr><tr><td>센서 포트</td><td style="text-align:left">φ0.8 블라인드 깊이 0.3(바깥면에서), x 8·15·22 × y 8.4·24.6·40.8</td></tr><tr><td colspan="2" style="background:#e9eef6;font-weight:700;color:#1F3864">§ 중간판 (3층, FR-4 0.4, 4L, ×2 동일)</td></tr><tr><td>히터</td><td style="text-align:left">위·아래 면 동일 패턴(코어당 4패스, 351 mm/면 3.1 Ω), 비아 4개(시작 ±0.4·끝 ±0.4, 면별로 다른 비아)</td></tr><tr><td>매설 리드</td><td style="text-align:left">L2로 밀봉 링 아래 통과 → 좌측 탭 패드 (−4.3, 4.8)·(−4.3, 15.6)</td></tr><tr><td>층간 유체 비아</td><td style="text-align:left">φ1.2 (7.0, 15.6) — 뒤집으면 (7.0, 4.8)</td></tr><tr><td colspan="2" style="background:#e9eef6;font-weight:700;color:#1F3864">§ 노즐·유량</td></tr><tr><td>노즐</td><td style="text-align:left">목 φ0.30, 지상 ε≈1.4 정합 / 진공 ε 100 교체</td></tr><tr><td>설계 유량 / 압력</td><td style="text-align:left">R1233zd(E) 5.37 mL/min (113.7 mg/s, 22 °C) · 챔버 4.0 bar abs (T_sat 60.8 °C) · 정격 27 W @ ~23 V</td></tr></table></div><h3>2.0b 층별 2D 도면 (치수 표기)</h3><div class="two"><figure><img src="/metacube/thruster/img/drw_core.png" alt="core"><figcaption>코어 — 관통 슬롯 + 양면 랜드</figcaption></figure><figure><img src="/metacube/thruster/img/drw_cover_outer.png" alt="cover outer"><figcaption>커버 바깥면 — 패드·인출선·센서 포트</figcaption></figure></div><figure><img src="/metacube/thruster/img/drw_cover_inner.png" alt="cover inner"><figcaption>커버 안쪽면 — 히터 ㄹ자 + 랜드 (확대 인셋에 선폭·갭·피치·밴드·여유)</figcaption></figure><div class="two"><figure><img src="/metacube/thruster/img/drw_stack.png" alt="stack"><figcaption>적층 단면 — 단층 1.67 / 3층 4.21 mm</figcaption></figure><figure><img src="/metacube/thruster/img/drw_midplate.png" alt="midplate"><figcaption>중간판(3층 전용) — 양면 히터·비아 4·매설 리드·탭·층간 유체 비아</figcaption></figure></div><h3>2.1 단층(1코어) 조립 — 1차 실험체</h3><iframe class="vf" data-src="/metacube/thruster/viewer/v1.html"></iframe><h3>2.2 3층(3코어 접기) 조립 — 2차</h3><iframe class="vf" data-src="/metacube/thruster/viewer/v3.html"></iframe><h3>2.3 커버 히터 단독 (도면용, 옆에 치수표)</h3><iframe class="vf" data-src="/metacube/thruster/viewer/vc.html"></iframe><h3>2.4 히터 치수</h3><figure><img src="/metacube/thruster/img/pcb_heater_zigzag_dims.png" alt="heater dims"><figcaption>Cu 35 μm 폭방향 ㄹ자: 선폭 0.20 / 갭 0.20 / 피치 0.40 · 세그먼트 1.6(밴드) · 채널 2.0 안쪽 0.2 여유 · 패스 0 시작 x 8.2 / 패스 11 끝 x 8.0 · U턴 코너까지 연속(라운드 클립) · 비아 (5.4, 4.1)·(5.4, 45.1) · 바깥면 패드 (1.8, 4.8)·(1.8, 44.4)</figcaption></figure><h3>2.5 EAGLE 도면 미리보기</h3><figure><img src="/metacube/thruster/img/eagle_v03_preview.png" alt="eagle"><figcaption>core_v03.brd(슬롯 = Milling 46 폭 2.0 중심선, 랜드 Top+Bottom) · cover_v03.brd(Top = 안쪽면 히터+랜드, Bottom = 바깥면 패드, 비아, 포트 φ1.0). 같은 커버 부품이 상·하 공용.</figcaption></figure></section><section class="tabpane" id="sec-heater"><h2>3. 히터 설계와 전압 → 전류·전력·온도 예측</h2><p class="sub">저항 모델: 유체 = R1233zd(E)(비등 T_sat 60.8 °C). 면저항 1.40 mΩ/sq(벌크의 2.9배 — 팀 히터 #2 0.152×2720 mm 26.3 Ω와 CSTE 0.3×282.5 mm 2.51 Ω 공통 피팅) + 리드 0.6 Ω/면, TCR 0.393 %/K. 3D 전기-열(전압 구동, 요소별 ρ(T), Cooper 비등, 에칭 Cu 패턴)로 계산. 히터는 단층/3층 모두 <b>하나</b>(전 면 직렬, 총 ~2240 mm) → 운전점 동일.</p><figure><img src="/metacube/thruster/img/figZ_VIP_T.png" alt="V-I-P-T"><figcaption>전압 → 보드 발열 · 전류 · 최고 온도 (직렬, 파워서플라이 0~30 V). 유체 운전은 비등이 66~70 °C에 묶어 P ∝ V²(트레이스 27 V에서 69.3 °C), 건식은 R(T)로 전류 포화(불변).</figcaption></figure><div class="tw"><table><tr><th>조건</th><th>I [A]</th><th>P 보드 [W]</th><th>P 리드 [W]</th><th>R(T) [Ω]</th><th>T_max [°C]</th><th>밴드 평균</th><th>외판 센서 범위</th><th>바닥 과열도 [K]</th></tr><tr><td>유체 15 V</td><td>0.76</td><td>10.7</td><td>0.69</td><td>19.74</td><td>66.3</td><td>66.2</td><td>61.8–64.8</td><td>5.0</td></tr><tr><td>유체 20 V</td><td>1.01</td><td>19.0</td><td>1.22</td><td>19.82</td><td>67.7</td><td>67.6</td><td>62.8–66.0</td><td>6.3</td></tr><tr><td>유체 24 V</td><td>1.21</td><td>27.2</td><td>1.75</td><td>19.88</td><td>68.6</td><td>68.6</td><td>63.4–66.9</td><td>7.2</td></tr><tr><td>유체 27 V</td><td>1.36</td><td>34.4</td><td>2.20</td><td>19.93</td><td>69.3</td><td>69.3</td><td>63.8–67.5</td><td>7.8</td></tr><tr><td>유체 30 V</td><td>1.50</td><td>42.4</td><td>2.71</td><td>19.97</td><td>70.0</td><td>69.9</td><td>64.2–68.1</td><td>8.4</td></tr><tr><td>건식 6 V</td><td>0.31</td><td>1.8</td><td>0.12</td><td>19.08</td><td>57.5</td><td>55.4</td><td>52.4–55.1</td><td>—</td></tr><tr><td>건식 8 V</td><td>0.39</td><td>2.9</td><td>0.18</td><td>20.45</td><td>81.3</td><td>77.7</td><td>72.6–77.3</td><td>—</td></tr><tr><td>건식 10 V</td><td>0.45</td><td>4.3</td><td>0.25</td><td>22.02</td><td>108.5</td><td>103.2</td><td>95.5–102.7</td><td>—</td></tr><tr><td>건식 12 V</td><td>0.51</td><td>5.8</td><td>0.31</td><td>23.73</td><td>138.3</td><td>131.0</td><td>120.5–130.5</td><td>—</td></tr></table></div><div class="note ok"><b>운전 규칙(v2)</b> P_필요 ≈ 4.75 W × Q[mL/min] + 1.5 W → 5.37 mL/min = <b>27 W ≈ 23 V</b>(요구량 정합; 30 W는 출구 벽 136–171 °C라 마진 케이스로만) · 8 mL/min = 28 V · 9 mL/min = 30 V. 건식 통전은 10 V(4.3 W, 108 °C) 이하. 표의 T_max·외판 센서는 비등 구간(등온 싱크) 값 — 출구 구간은 5절 결합 FEA.</div><div class="note"><b>가장 큰 불확실성</b> = 면저항(×3 범위). 커버 보드 4장 먼저 발주 → 위트니스 쿠폰 4선 측정(ρs·R_fix·TCR) → 예측표 갱신 → 풀스택 발주 순서 권장.</div></section><section class="tabpane" id="sec-fea"><h2>4. 3D 열해석 (CalculiX)</h2><div class="note"><b>v2 정정 (08-16)</b> — 아래 TH2·TH3는 채널 전체를 55 °C 등온 비등 싱크로 둔 해석이라 <b>비등 구간(x &lt; x_di≈0.67, 앞 ~180 mm)에서만 유효</b>합니다. 건조·증기 구간(마지막 1~1.5패스)은 5절의 <b>3D-1D 결합 FEA</b>가 정본: 출구 벽 27 W 104–125 °C / 30 W 136–171 °C, 노즐측 외판 센서 ~99 °C(27 W). 콜드스타트 2.9–7.8 s는 웜 리스타트 값 → 진짜 콜드스타트 11–24 s(27 W, 5절). 아래 TH2/TH3 수치는 R245fa 당시 값 — R1233zd(E) 재런: T_max 69.0/69.1 °C(+5.7 K), 과열도 7.5/8.3 K·열배분 동일. 등온 싱크 결과의 T_max 63 °C·열배분 46/46/7·과열도 7.6 K·건식 K/W는 그대로 유효.</div><h3>4.1 판 모델 TH2 — 단층 30×49×1.54, 30 W, 에칭 Cu 패턴</h3><div class="cards"><div class="card"><b>T_max</b><div class="n">63.3 °C</div><p>히터 밴드. Cu 상/하 대칭(0.00 K). TH1 3코어 65.1보다 낮음.</p></div><div class="card"><b>열배분</b><div class="n">46 / 46 / 7 %</div><p>바닥 / 천장 / 리브 측벽. 벽 과열도 바닥=천장 7.6 K, 측벽 3.1 K.</p></div><div class="card"><b>외피 손실</b><div class="n">1.2 W</div><p>96 % 폐합. 외판 센서 9점 59.6~62.3 °C(채널 위 vs 리브 위 ~2.5 K).</p></div><div class="card"><b>콜드스타트(3D, 웜 리스타트)</b><div class="n">2.9–7.8 s</div><p>⚠ 유체가 처음부터 55 °C인 조건(웜 리스타트). 채널 액체 재고·통과시간(3.8 s)을 포함한 진짜 콜드스타트는 5절 v2 모델(6~15 s). 건식 6 W: 239/142 °C(h 10/20) → 36/20 K/W.</p></div></div><div class="two"><figure><img src="/metacube/thruster/img/figS1_core_midplane_A.png" alt="S1"><figcaption>코어 중간면 / 하부 Cu 히터면 온도 (S_A 30 W)</figcaption></figure><figure><img src="/metacube/thruster/img/figS1b_cu_pattern_compare.png" alt="S1b"><figcaption>연속 Cu 가정 vs 에칭 패턴 — 에칭 패턴이 정본(밴드 > 리브 > 여백)</figcaption></figure></div><div class="two"><figure><img src="/metacube/thruster/img/figS3_dTwall_path.png" alt="S3"><figcaption>벽 과열도 vs 채널 경로 — 경로 전체 평탄, U턴 봉우리 없음(히터가 채널 안쪽)</figcaption></figure><figure><img src="/metacube/thruster/img/figS4_transient_D.png" alt="S4"><figcaption>콜드스타트 (22 °C → 30 W ON)</figcaption></figure></div><h3>4.2 단위셀 TH3 — 실제 ㄹ자 트레이스 0.20/0.20 해상 (격자 0.05 mm)</h3><figure><img src="/metacube/thruster/img/figU0_where_is_what_temperature.png" alt="U0"><figcaption><b>어디가 몇 도인가</b> — 유체 55.0(포화) → 히터 트레이스 63.4(과열도 8.4 K, 구리 안 등온 0.07 K) → 트레이스 사이 FR-4 갭 61.0 → 커버 바깥면(센서) 60.4 → 리브 옆벽 57.9. 열 배분: 트레이스 상면 53 / 옆면 19 / FR-4 갭 26 / 리브 2 %. 스미어 밴드 모델 대비 +0.2~0.7 K → 핫스팟 없음, 예측표 유효.</figcaption></figure><div class="two"><figure><img src="/metacube/thruster/img/figU1_cu_plane_topview.png" alt="U1"><figcaption>히터면 상면도 — 트레이스/갭 온도 (U1 정격 · U2 2배 · U3 0.15/0.15)</figcaption></figure><figure><img src="/metacube/thruster/img/figU3_superheat_split.png" alt="U3"><figcaption>과열도와 열 배분</figcaption></figure></div><div class="note">한계(정직하게): Cooper 상관식 ±2~4 K, 유체 55 °C 등온 싱크(비등 구간에만 맞음 — 출구 증기 구간은 아래 5절), 축방향 변화 없음, 히터 균일 발열(링크 전류 집중 미반영).</div></section><section class="tabpane" id="sec-boil"><h2>5. 채널을 따라 어디서 끓고, 어디서 마르고, 어디서 다 기체가 되나 — v2 (정상 · 과도 · 안정성 · 3D-1D 결합)</h2><p class="sub">유체 R1233zd(E) · 1D 축방향 2상 모델 v2: 과냉/핵비등(Cooper·Kim-Mudawar 2013·Bertsch 2009 밴드 — zd는 DB 밖, 밴드 접근) → <b>건조 개시 x_di(Kim-Mudawar 2013 Part I)</b> → 후건조 블렌드 → 과열 증기(층류/Gnielinski/Dittus-Boelter 밴드) · 액체 체류(통과 3.8 s)·채널 재고 포함 진짜 콜드스타트 · 실기체 C*·HEM 임계유량 압력 결합 · Katto-Ohno/Zhang CHF · Ledinegg/Ishii-Zuber 안정성 · 3D 공액전도를 1D 구간별 h·T_sink와 결합. 검토(review/physics_review_v1.md) 반영본 = <b>정본</b>. 27 W(요구량 정합) / 30 W.</p><div class="cards"><div class="card"><b>건조 개시 x_di</b><div class="n">0.67</div><p>27 W: 195 mm(1D) · 30 W: 175 mm. 이후 후건조 → x=1 (27 W 267 / 30 W 241 mm). "CHF 여유 15×"는 오류(풀비등식)라 삭제 — 건조형 CHF 14 kW/m² &lt; 인가 21~23 → 완전기화 설계는 정의상 dryout을 지난다.</p></div><div class="card"><b>출구 벽온 (3D-1D 결합, 에칭 Cu)</b><div class="n">27 W 104–125 °C</div><p>30 W 136–171 °C (증기 h 밴드 Gnielinski/층류). 1D 밴드 27 W 117–186 / 30 W 147–223. 최고점 = 노즐측 마지막 패스. 비등구간은 66–69 °C. FR-4 Tg 155 대비 30 W는 위험 → 정격 27 W.</p></div><div class="card"><b>콜드스타트 (진짜)</b><div class="n">27 W 11–24 s</div><p>보드·채널액 22 °C, 펌프+히터 t=0: x_out=1 11.1–19.5 s, 과열 10 K 14.4 s(스트립, 지속 23.6 s; 보드 스케일은 40 s 내 미도달 → 27 W에선 프리히트 필수) (30 W: 8.6–13.3 / 9.8–15.4 s). 프리히트 6 s 후 펌프 ON이 최적, 20 s는 벽 250 °C로 불가.</p></div><div class="card"><b>안정성</b><div class="n">리스트릭터 φ0.15</div><p>운전점 ΔP(G) 기울기 +(양) → Ledinegg 안정, 음의 가지는 G 236–400. 제한기 ΔP 42 kPa = 2상 ΔP의 ~14× → 기울기 +830 → PDO/Ledinegg 충족. Ishii-Zuber(N_sub 15.4): 시린지펌프 직결(정유량)이면 DWO 해제, 연성 급송이면 ΔP_r 1.2–2 bar 필요.</p></div></div><figure><img src="/metacube/thruster/img/pcb_cm2_serpentine_steady.png" alt="serpentine v2"><figcaption>정상 27 W / 30 W — 실제 12패스 채널 위 벽 온도·건도(v2). x_di(청록)·x=1(초록/빨강) 위치 표시. 마지막 1~1.5패스만 뜨겁다.</figcaption></figure><div class="two"><figure><img src="/metacube/thruster/img/pcb_cm2_steady_27W.png" alt="steady 27"><figcaption>27 W 경로 그래프: 벽/유체 온도 밴드 · 건도 · 열유속 · 구간</figcaption></figure><figure><img src="/metacube/thruster/img/pcb_cm2_steady_30W.png" alt="steady 30"><figcaption>30 W 경로 그래프</figcaption></figure></div><div class="two"><figure><img src="/metacube/thruster/img/pcb_cm2_htp_band.png" alt="htp band"><figcaption>비등 h(x) 밴드 — Cooper / Kim-Mudawar / Bertsch, x_di 이후 후건조</figcaption></figure><figure><img src="/metacube/thruster/img/pcb_cm2_outlet_wall_band.png" alt="outlet band"><figcaption>출구 벽온 밴드 vs 전력·증기 h 상관식, FR-4 Tg 155/170 기준선</figcaption></figure></div><figure><img src="/metacube/thruster/img/pcb_cm2_stability_map.png" alt="stability"><figcaption>안정성 맵 — 채널 ΔP(G) 특성(제한기 유/무), Ledinegg 판별, Ishii-Zuber N_sub–N_pch 점 vs 경계</figcaption></figure><h3>3D-1D 결합 FEA (에칭 Cu, 27/30 W, 증기 h 공칭·비관)</h3><div class="two"><figure><img src="/metacube/thruster/img/figC1_wall_path.png" alt="figC1"><figcaption>벽 온도 vs 채널 경로 — 등온 싱크(TH2) vs 결합. 비등구간 동일, 건조·증기 구간에서 상승.</figcaption></figure><figure><img src="/metacube/thruster/img/figC2_sensors.png" alt="figC2"><figcaption>외판 센서 예측 — 패스1·리브 59–63, 패스10 65–79(27 W), 노즐측 패스11 ~99 °C(27 W)/~129(30 W) → y 44.4 센서 추가</figcaption></figure></div><h3>과도 — 콜드스타트 (v2)</h3><figure><img src="/metacube/thruster/img/pcb_cm2_serpentine_27W.gif" alt="gif serp"><figcaption>27 W 콜드스타트 애니메이션 — ㄹ자 채널 위 벽 온도·건도</figcaption></figure><div class="two"><figure><img src="/metacube/thruster/img/pcb_cm2_transient_27W_board.png" alt="tr27"><figcaption>27 W: 전선(x_di·x=1) 이동·압력·출구 상태 vs 시간</figcaption></figure><figure><img src="/metacube/thruster/img/pcb_cm2_transient_30W_board.png" alt="tr30"><figcaption>30 W</figcaption></figure></div><figure><img src="/metacube/thruster/img/pcb_cm2_snapshots_27W.png" alt="snap"><figcaption>27 W 스냅샷</figcaption></figure><div class="note"><b>설계 시사점(v2)</b> — ① 운전 정격은 <b>27 W(요구량 정합)</b>: 30 W면 출구 벽 136–171 °C(FR-4 Tg 155 위험). 단 27 W 출구 과열이 10.6 K로 R245fa(16.5)보다 얇음 — 27.5~28 W 미세 상향 검토 여지. ② 완전기화 이후 마지막 1~1.5패스는 100–120 °C가 정상 — 노즐측 외판 센서(y 44.4)로 "완전 기화" 판정. ③ 입구 리스트릭터 φ0.15 + 강성 급전 + 100 Hz 압력 계측. ④ 콜드스타트 실측 기대치 11–24 s(27 W; 프리히트 6 s 권장). 구 v1(균일 등온 싱크·CHF 15×·콜드스타트 3–8 s)은 폐기.</div><p class="sub">v1(참고): 1D 준정상 유체·건도 1까지 Cooper·D-B 상한만 사용 — 위 v2로 대체됨. 상세: review/physics_fix_v2_report.md · design/pcb_channel_model_v2.py · fea/pcb/run_single_coupled.py</p></section><section class="tabpane" id="sec-files"><h2>6. EAGLE 도면·스크립트</h2><div class="dl"><a href="/metacube/thruster/eagle/core_v03.brd" download>core_v03.brd (32 KB)</a><a href="/metacube/thruster/eagle/cover_v03.brd" download>cover_v03.brd (92 KB)</a><a href="/metacube/thruster/eagle/heater_zigzag.scr" download>heater_zigzag.scr (22 KB)</a><a href="/metacube/thruster/eagle/heater_zigzag_points.csv" download>heater_zigzag_points.csv (20 KB)</a><a href="/metacube/thruster/eagle/README.md" download>README.md (4 KB)</a></div><p class="sub">core_v03.brd(코어 ×1) · cover_v03.brd(커버 ×2 동일 부품) · heater_zigzag.scr(EAGLE에서 SCRIPT 실행 → 히터·비아·패드·외형 자동 작도) · 좌표 CSV. XML v9.6.2 헤더(7.x는 version만 수정). 주문 규격: 솔더마스크 없음, ENIG, 1 oz, 코어 0.6T/커버 0.4T, 슬롯 라우팅 ±0.2, NPTH ±0.05.</p></section><section class="tabpane" id="sec-risk"><h2>7. 미결·리스크 (발주 전 확인)</h2><ul><li>🔴 <b>면저항 1.40 mΩ/sq</b> — 팀 히터 2개 저항값에서 피팅(물리 설명 없음, ×3 범위). 위트니스 쿠폰 4선 측정으로 확정 후 선폭 최종화.</li><li>🔴 <b>히터 리드 밀봉 관통</b> — 밀봉 안쪽 비아 + 리플로우 솔더 충전은 가안. 팀의 No.5/6 방식 확인 또는 커버 보드로 누설 시험 먼저.</li><li>🔴 <b>출구 증기·건조 구간 벽 온도</b> — 건도 x_di≈0.65 이후 후건조, 증기 h 밴드(층류 100 ~ D-B 480 W/m²K)로 벽 125~310 °C 가능(v1 "110~140"은 상한 h만 쓴 값). 조치: 운전 전력 26~27 W 정합, 출구 60~110 mm 히터 그레이딩 검토, 커버 High-Tg(≥170) 옵션, 노즐 쪽 외판 센서. 5절 v2 모델 참조.</li><li>🔴 <b>유동비등 불안정성(Ledinegg·압력강하 진동·DWO)</b> — 긴 단일채널+시린지펌프. 조치: <b>입구 리스트릭터 φ0.15(액체 ΔP≈35 kPa, Cd 0.65 ≥ 2상 ΔP의 ~10×)</b>, 급전라인 강성·체크밸브, 챔버 압력 ≥100 Hz 계측, (G,q) 안정성 맵 — 5절 v2.</li><li>🟡 계측: 0~5 N 로드셀 정확도 ±100 mN(추력 26 mN) → 차동/분동 교정 또는 1 N급·진자; 급전 튜브 압력힘 177 mN → 직각 진입·가압 타레; 출구 기체 온도는 노출 접점 φ0.13 K형(시스 TC는 벽온을 읽음); 노즐목은 보석 오리피스/레이저 홀(드릴 ±0.05 → 33 %); GUM 불확도 예산.</li><li>🟡 밀봉·공정: 캐비티 내 비아 솔더 충전 보증(IPC-4761 Type VII 플러깅 또는 He 리크 전수), 무진공 리플로우 보이드 → X-ray·압력감쇠 전수, ROL0 플럭스+IPA 플러시+베이크, R245fa–FR-4/ENIG/솔더 침지 쿠폰(65~140 °C), 인라인 필터.</li><li>🟡 3층 중간판은 4층 보드(양면 히터 + 매설 리드) 필요 — 2층으로 하면 밀봉 링을 같은 면에서 가로질러 누설. 1차 단층에서 커버 비아 방식부터 검증.</li><li>🟡 Cooper ±2~4 K, 증기 h ±30 %(벽 최고 ±15 K), 건식 h_out 10↔20, R_fix 0.6 가정, 히터 #2 실측(TCR 역산 84 vs 표면 58 °C) 미해결 → 건식 V–I–T 캘리브레이션 실험으로 확정.</li><li>🟢 채널 치수(공정 제약)·길이 여유·설계점·업체 규격 적합성·단층 대칭 열배분·콜드스타트 수 초·추진제 선택 근거.</li></ul><h2>순서</h2><ol style="font-size:13.5px"><li>커버 보드 4장(히터+쿠폰+비아) 발주 → 4선 저항·건식 V–I–T·비아 충전 누설 시험</li><li>ρs·K/W 확정, 예측표 갱신, 출구 증기 구간 3D 결합</li><li>코어 포함 풀스택 발주 → 리플로우 조립 → 4 bar g 내압 → 유체 파라메트릭(유량 × 전압 → 출구 상태, η_th, 압력–유량, 자세, 콜드스타트)</li><li>3층: 같은 점 재현 + 자세 3방향 + 콜드스타트 비교</li></ol></section><div id="mccmt" data-page="thruster"></div><script src="/metacube/mc-comments.js"></script><script>function showTab(k){document.querySelectorAll(".tabpane").forEach(function(e){e.classList.toggle("on",e.id==="sec-"+k)});document.querySelectorAll(".tabbar button").forEach(function(b){b.classList.toggle("on",b.id==="tb-"+k)});document.querySelectorAll("#sec-"+k+" iframe[data-src]").forEach(function(f){if(!f.src){f.src=f.getAttribute("data-src")}});if(history.replaceState){history.replaceState(null,"","#"+k)}window.scrollTo(0,0)}(function(){var k=(location.hash||"#ov").slice(1);if(!document.getElementById("sec-"+k)){k="ov"}showTab(k);window.addEventListener("hashchange",function(){var h=location.hash.slice(1);if(document.getElementById("sec-"+h))showTab(h)})})();</script><p class="sub" style="margin-top:30px">코드·데이터 정본: coldgas-thruster/design (propellant_selection.py · pcb_stack_viewer.py · pcb_cover_heater_viewer.py · pcb_heater_zigzag.py · pcb_channel_boiling_map.py · eagle/) · fea/pcb (pcb_lib_single.py · pcb_electro.py · pcb_unitcell.py · PCB_TH2/TH3 보고서). 페이지 생성기 design/site_thruster_page.py</p></div></body></html>
